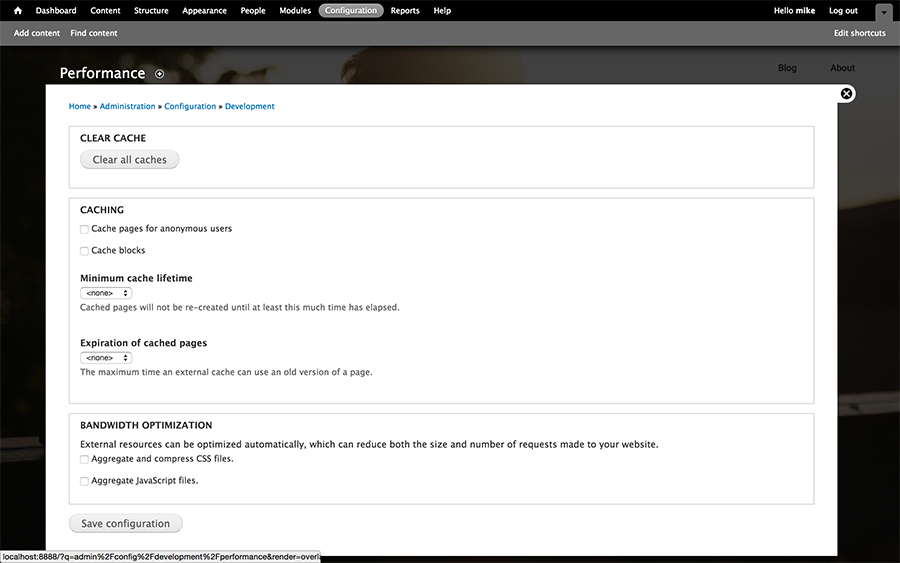
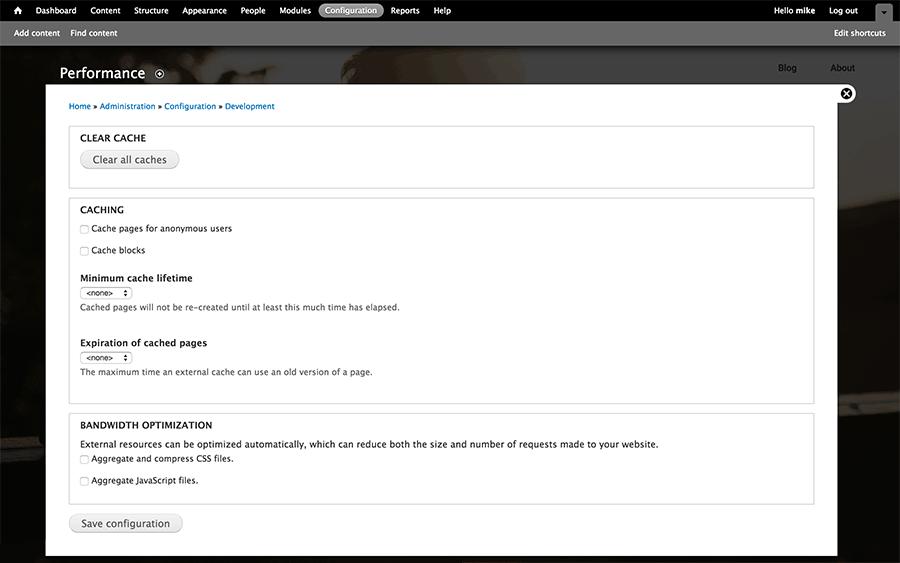
Added screen shot to drupal post

Changed region(s): [[0.0, 0.9663, 0.3733, 1.0]]

diff --git a/_posts/2015-09-24-drupal.md b/_posts/2015-09-24-drupal.md
@@ -296,7 +296,7 @@ All changes made on CloudCannon are committed back to the repository so I can wo
 
 I had the following cache settings turned on and loaded the page several times to ensure everything was cached properly.
 
-![](/img/blog/drupal-jekyll/drupal-speed.png)
+![](/img/blog/drupal-jekyll/drupal-speed.png){:.screenshot}
 
 ### Jekyll
 
